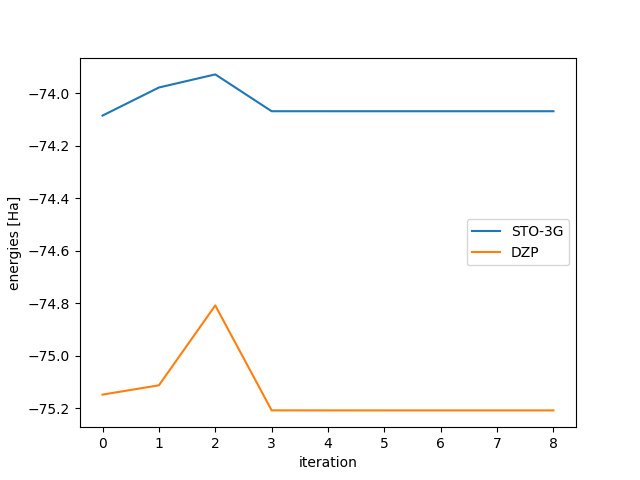
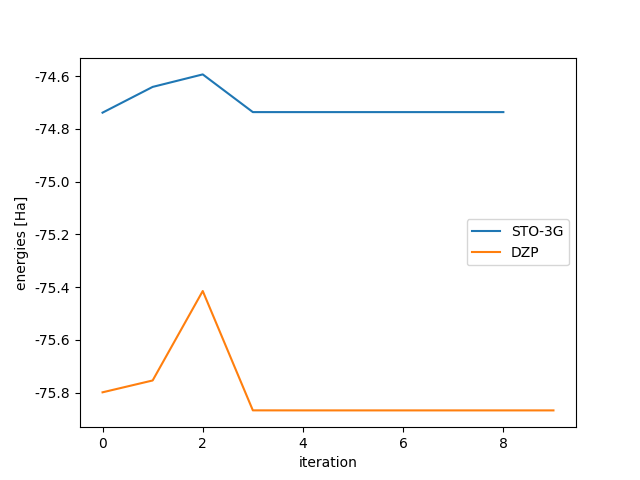
Use PW correlation functional
- also make sure open gets properly closed, plus some small changes

diff --git a/getting_started/plot_energies.py b/getting_started/plot_energies.py
@@ -5,11 +5,12 @@ from matplotlib.ticker import FormatStrFormatter
 def get_energies(file):
     '''Get energies per iteration from an output file.'''
     energies = []
-    for line in open(file):
-        tmp = line.rstrip().split(" E= ")
-        if len(tmp) == 2:
-            tmp = tmp[1].split('  ')[0]
-            energies.append(float(tmp))
+    with open(file,'r') as file:
+        for line in file:
+            tmp = line.rstrip().split(' E= ')
+            if len(tmp) >= 2:
+                tmp = tmp[1].split('  ')[0]
+                energies.append(float(tmp))
     return energies
 
 
@@ -18,10 +19,10 @@ def main():
     e_dzp = get_energies('h2o_dzp.out')
     fig, ax = plt.subplots()
     ax.yaxis.set_major_formatter(FormatStrFormatter('%.1f'))
-    plt.plot(e_sto3g, label="STO-3G")
-    plt.plot(e_dzp, label="DZP")
-    plt.xlabel("iteration")
-    plt.ylabel("energies [Ha]")
+    plt.plot(e_sto3g, label='STO-3G')
+    plt.plot(e_dzp, label='DZP')
+    plt.xlabel('iteration')
+    plt.ylabel('energies [Ha]')
     plt.legend(loc='center right')
     plt.show()
 

diff --git a/getting_started/h2o.py b/getting_started/h2o.py
@@ -3,8 +3,8 @@ from pyscf import gto, dft
 
 h2o = gto.Mole()
 h2o.atom = 'O 0 0 0; H 0 1 0; H 0 0 1'
-h2o.basis = 'sto-3g'
-#h2o.basis = 'dzp'
+#h2o.basis = 'sto-3g'
+h2o.basis = 'dzp'
 h2o.build()
 # same as:
 # h2o = gto.Mole()
@@ -13,7 +13,7 @@ h2o.build()
 # h2o = gto.M(atom='O 0 0 0; H 0 1 0; H 0 0 1', basis='sto-3g')
 
 mf = dft.RKS(h2o)
-mf.xc = 'lda'
+mf.xc = 'lda,pw'
 mf.verbose = 4
 mf.kernel()
 # same as:
